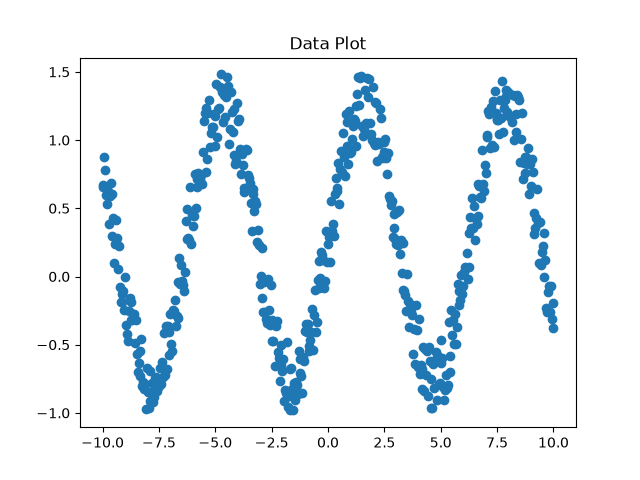
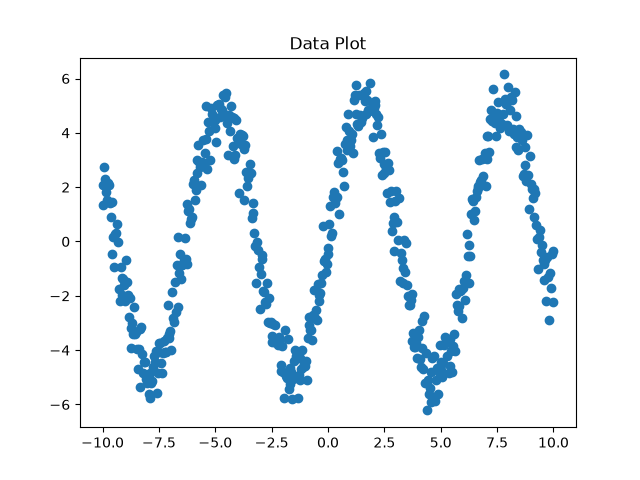
rework tree to be list based instead of pointer

diff --git a/src/tgp/individual.py b/src/tgp/individual.py
@@ -1,21 +1,14 @@
 from collections import deque
 
-from . import node as td
 from . import programs
 
 class individual:
     def __init__(
-        self, 
-        rng, 
+        self,
         max_size=0,
-        mutation=0,
-        crossover=0
     ):
-        self.rng = rng
         self.max_size = max_size
-        self.mutation = mutation
-        self.crossover = crossover
-        self.size = 0
+        self.genotype = []
 
         # initialize the tree
         self.__initialize_individual()
@@ -24,66 +17,73 @@ class individual:
         self.__grow_tree()
 
     def __grow_tree(self):
-        # list of all nodes that need to be visited
         unvisited_nodes = deque()
-        inputs = 0
 
-        # generate root first (BFS)
-        # (name, num arguments, function)
-        prog = programs.random_program(rng=self.rng)
-        root = td.node(res=0, op=prog[2])
-        self.size += 1
+        # generate genotype (BFS)
+        prog = programs.random_program()
+        gene = {'op': prog[2], 'args': [i + 1 for i in range(prog[1])]}
+        self.genotype.append(gene)
+        unvisited_nodes.append(0)
 
-        for args in range(prog[1]):
-            arg = td.node()
-            root.set_arg(n_node=arg)
-            unvisited_nodes.append(arg)
+        # build out non-leaf nodes
+        while len(self.genotype) < self.max_size:
+            peek = self.genotype[unvisited_nodes[0]]
 
-        # visit all nodes in the tree and populate them
-        while self.size < self.max_size:
-            prog = programs.random_program(rng=self.rng)
-            unode = unvisited_nodes.popleft()
-            unode.set_op(op=prog[2])
-            self.size += 1
+            for index in peek['args']:
+                prog = programs.random_program()
+                gene = {'op': prog[2], 'args': []}
+                unvisited_nodes.append(index)
+                for args in range(prog[1]):
+                    gene['args'].append((self.genotype[-1]['args'][-1] + 1) + args)
+                self.genotype.append(gene)
 
-            for args in range(prog[1]):
-                arg = td.node()
-                unode.set_arg(n_node=arg)
-                unvisited_nodes.append(arg)
+            unvisited_nodes.popleft()
 
+        # build leaves
         while len(unvisited_nodes) > 0:
-            prog = programs.random_program(rng=self.rng, leaf=True)
-            unode = unvisited_nodes.popleft()
-            unode.set_res(prog[2](rng=self.rng))
-            self.size += 1
+            peek = self.genotype[unvisited_nodes[0]]
+            prog = programs.random_program(leaf=True)
+            for _ in peek['args']:
+                gene = {'value': prog[2]()}
+                self.genotype.append(gene)
+            unvisited_nodes.popleft()
 
-        self.root = root
+        # print(self.genotype)
 
     def __phenotype(self, input):
         # stack based eval
         stack = deque()
-        stack.append(self.root)
+        stack.append({'pos': 0, 'genome': self.genotype[0]})
+        result = [None for i in range(len(self.genotype))]
 
         while len(stack) > 0:
-            peek = stack[-1]
-            all_leaves = True
-            # store args that need to be computed
-            for arg in peek.args:
-                if arg.res is None:
-                    stack.append(arg)
-                    all_leaves = False
-            # if all leaves allow computation of node
-            if all_leaves:
-                node = stack.pop()
-                args = node.args
-                res = [input if arg.res == 'input' else arg.res for arg in args]
-                node.res = node.op(*res)
-                # reset results after use if not leaf
-                for arg in args:
-                    if arg.op is not None:
-                        arg.res = None
+            peek = stack[-1]['genome']
+            args = []
 
-        return self.root.res
+            for index in peek['args']:
+                gene = self.genotype[index]
+
+                # if a leaf node
+                if 'value' in gene:
+                    result[index] = input if gene['value'] == 'input' else gene['value']
+                    args.append(result[index])
+                    continue
+
+                # if not leaf node
+                if result[index] is not None:
+                    args.append(result[index])
+                    continue
+
+                stack.append({'pos': index, 'genome': gene})
+
+            if len(args) >= len(peek['args']):
+                # print(peek['op'], args, peek['op'](*args))
+                result[stack[-1]['pos']] = peek['op'](*args)
+                stack.pop()
+
+        # print(self.genotype)
+        return result[0]
+        
 
     def compute_tree(self, input):
         """ get output based on input, converts genotype to phenotype

diff --git a/src/tgp/genetic_program.py b/src/tgp/genetic_program.py
@@ -1,38 +1,37 @@
 import numpy as np
 
-from utils import out
+from utils import out, ut
 
-from . import individual, fitness
+from . import individual, fitness, crossover
 
 class genetic_program:
     def __init__(
-        self, 
-        rng,
+        self,
         max_pop=0, 
-        max_size=0, 
-        max_generation=0, 
-        mutation=0, 
-        crossover=0
+        max_size=0,
+        max_generation=0,
     ):
-        self.rng = rng
         self.max_generation = max_generation
         self.max_pop = max_pop
         self.max_size = max_size
-        self.population = np.array([individual.individual(
-            rng=self.rng, 
-            max_size=self.max_size, 
-            mutation=mutation, 
-            crossover=crossover) for _ in range(self.max_pop)])
+        self.population = np.array([
+            individual.individual(max_size=self.max_size) for _ in range(self.max_pop)])
 
     def train(self):
-        pop_ranked = fitness.fitness_rank(self.population)
+        # size = crossover.subtree_size(self.population[0].root.args[1])
+        # print(size)
 
         # for gen in range(self.max_generation):
         #     out.logger(
         #         msg = f"Generation: {gen + 1} / {self.max_generation}", 
         #         primer="\r", no_return=True, flush=True)
 
-        #     # do evaluation
-
-        #     # do mutation and crossovers
-
+        # do evaluation
+        # rank = fitness.fitness_rank(self.population)
+        # print(rank[0][0], rank[0][1].genotype)
+        # do crossovers (need some form of heuristic to decide which parent to combine)
+        # for _ in range(2000):
+        #     p1 = self.population[self.rng.integers(0, len(self.population))]
+        #     p2 = self.population[self.rng.integers(1, len(self.population))]
+        #     crossover.recombination(p1, p2)
+        pass

diff --git a/src/tgp/programs.py b/src/tgp/programs.py
@@ -1,5 +1,7 @@
 import numpy as np
 
+from utils import gen
+
 def __add(x, y):
     return x + y
 
@@ -14,14 +16,17 @@ def __div(x, y):
 def __mult(x, y):
     return x * y
 
-def __input(rng):
+def __cos(x):
+    return np.cos(x)
+
+def __input():
     return 'input'
 
-def __erc(rng):
-    values = [np.e, np.pi, rng.random(), rng.integers(low=-10, high=10)]
-    return rng.choice(values)
+def __erc():
+    values = [np.e, np.pi, gen.rng.random(), gen.rng.integers(low=-10, high=10)]
+    return gen.rng.choice(values)
 
-def random_program(rng, leaf=False):
+def random_program(leaf=False):
     """
         returns a random atomic program (uniform)
 
@@ -32,7 +37,7 @@ def random_program(rng, leaf=False):
         returns:
             ('program name', # arguements of returned program, function call to program)
     """
-    programs = [('add', 2, __add), ('sub', 2, __sub), ('div', 2, __div), ('mult', 2, __mult)]
+    programs = [('add', 2, __add), ('sub', 2, __sub), ('div', 2, __div), ('mult', 2, __mult), ('cos', 1, __cos)]
     if leaf:
         programs = [('erc', 0, __erc), ('input', 0, __input)]
-    return rng.choice(programs)
+    return gen.rng.choice(programs)

diff --git a/src/tgp/fitness.py b/src/tgp/fitness.py
@@ -1,16 +1,18 @@
 import numpy as np
 
-from utils import generate_data as gen
+from utils import gen, ut
 
 def __fitness_evaluator(program):
-    # measures total absolute error from actual to prediction
+    # measures average absolute error from actual to prediction
     samples = gen.sample_data()
     y_out = (np.vectorize(program.compute_tree))(samples[:, 0])
-    return np.sum(np.abs(samples[:, 1] - y_out))
+    abs_err = np.abs(samples[:, 1] - y_out)
+    return np.average(abs_err)
 
 def fitness_rank(population):
-    # have to define otype, was triggering generator over and over to figure out dtype
+    # have to define otype, was triggering generator over and over to discover dtype on its own
     total_error = (np.vectorize(__fitness_evaluator, otypes=[np.float64]))(population)
     sorted_index = np.argsort(total_error)
+    sorted_err = total_error[sorted_index]
     sorted_pop = population[sorted_index]
-    return sorted_pop
+    return np.array(list(zip(sorted_err, sorted_pop)))

diff --git a/src/utils/generate_data.py b/src/utils/generate_data.py
@@ -9,17 +9,17 @@ def seed_random():
         print(f'Seeded Run -> {cf.SEED}')
     globals()['rng'] = np.random.default_rng(seed=cf.SEED) if cf.ENABLE_SEED else rng
 
-def regress_func(x):
-    return np.sin(x)
+def __regress_func(x):
+    return 5 * np.sin(x)
 
-def add_noise(variance=0, size=0):
-    rand_mat = rng.random((size,))
-    return rand_mat * variance
+def add_noise(size=0):
+    rand_mat = rng.normal(loc=0, scale=cf.VARIANCE, size=size)
+    return rand_mat * cf.VARIANCE
 
 def __generate_data():
     print('Generate data...')
     x = np.linspace(start=cf.START, stop=cf.STOP, num=cf.NUM_SAMPLES, endpoint=True)
-    y = regress_func(x) + add_noise(cf.VARIANCE, x.shape[0])
+    y = __regress_func(x) + add_noise(x.shape[0])
     globals()['data'] = np.array(list(zip(x, y)))
 
 def generate_data():

diff --git a/src/symbolic_regression/setup.py b/src/symbolic_regression/setup.py
@@ -9,19 +9,16 @@ def setup():
     gen.seed_random()
     gen.generate_data()
 
-    best_program = run_model(rng=gen.rng)
+    best_program = run_model()
 
     # test data
     gp.scatter_plot(y=gen.data[:, 1], x=gen.data[:, 0])
     gp.save_plot()
 
-def run_model(rng):
+def run_model():
     print('Training...')
     model = tgp.genetic_program(
-        rng=rng,
         max_pop=cf.MAX_POP, 
         max_size=cf.MAX_SIZE, 
-        max_generation=cf.GENERATION, 
-        mutation=cf.MUTATION, 
-        crossover=cf.CROSSOVER)
+        max_generation=cf.GENERATION)
     best_program = model.train()

diff --git a/src/configs.py b/src/configs.py
@@ -1,17 +1,18 @@
 GENERATION = 50
 MAX_POP = 500
-MAX_DEPTH = 5
 MAX_SIZE = 5
+SIZE_CAP = 64
 
-MUTATION = .1
-CROSSOVER = .9
+CO_SIZE_DRIFT = 7
+CO_NON_LEAF = .9
+CO_LEAF = .1
 
 # Generate data
 ENABLE_SEED = 1
-SEED = 12345
+SEED = 23182301298174123123
 
-SAMPLE_SIZE = 20
-VARIANCE = 0.5
+SAMPLE_SIZE = 50
+VARIANCE = .8
 START = -10
 STOP = 10
 NUM_SAMPLES = 500

diff --git a/src/utils/__init__.py b/src/utils/__init__.py
@@ -3,3 +3,4 @@
 from . import generate_data as gen
 from . import graph as gp
 from . import logger as out
+from . import utility as ut
